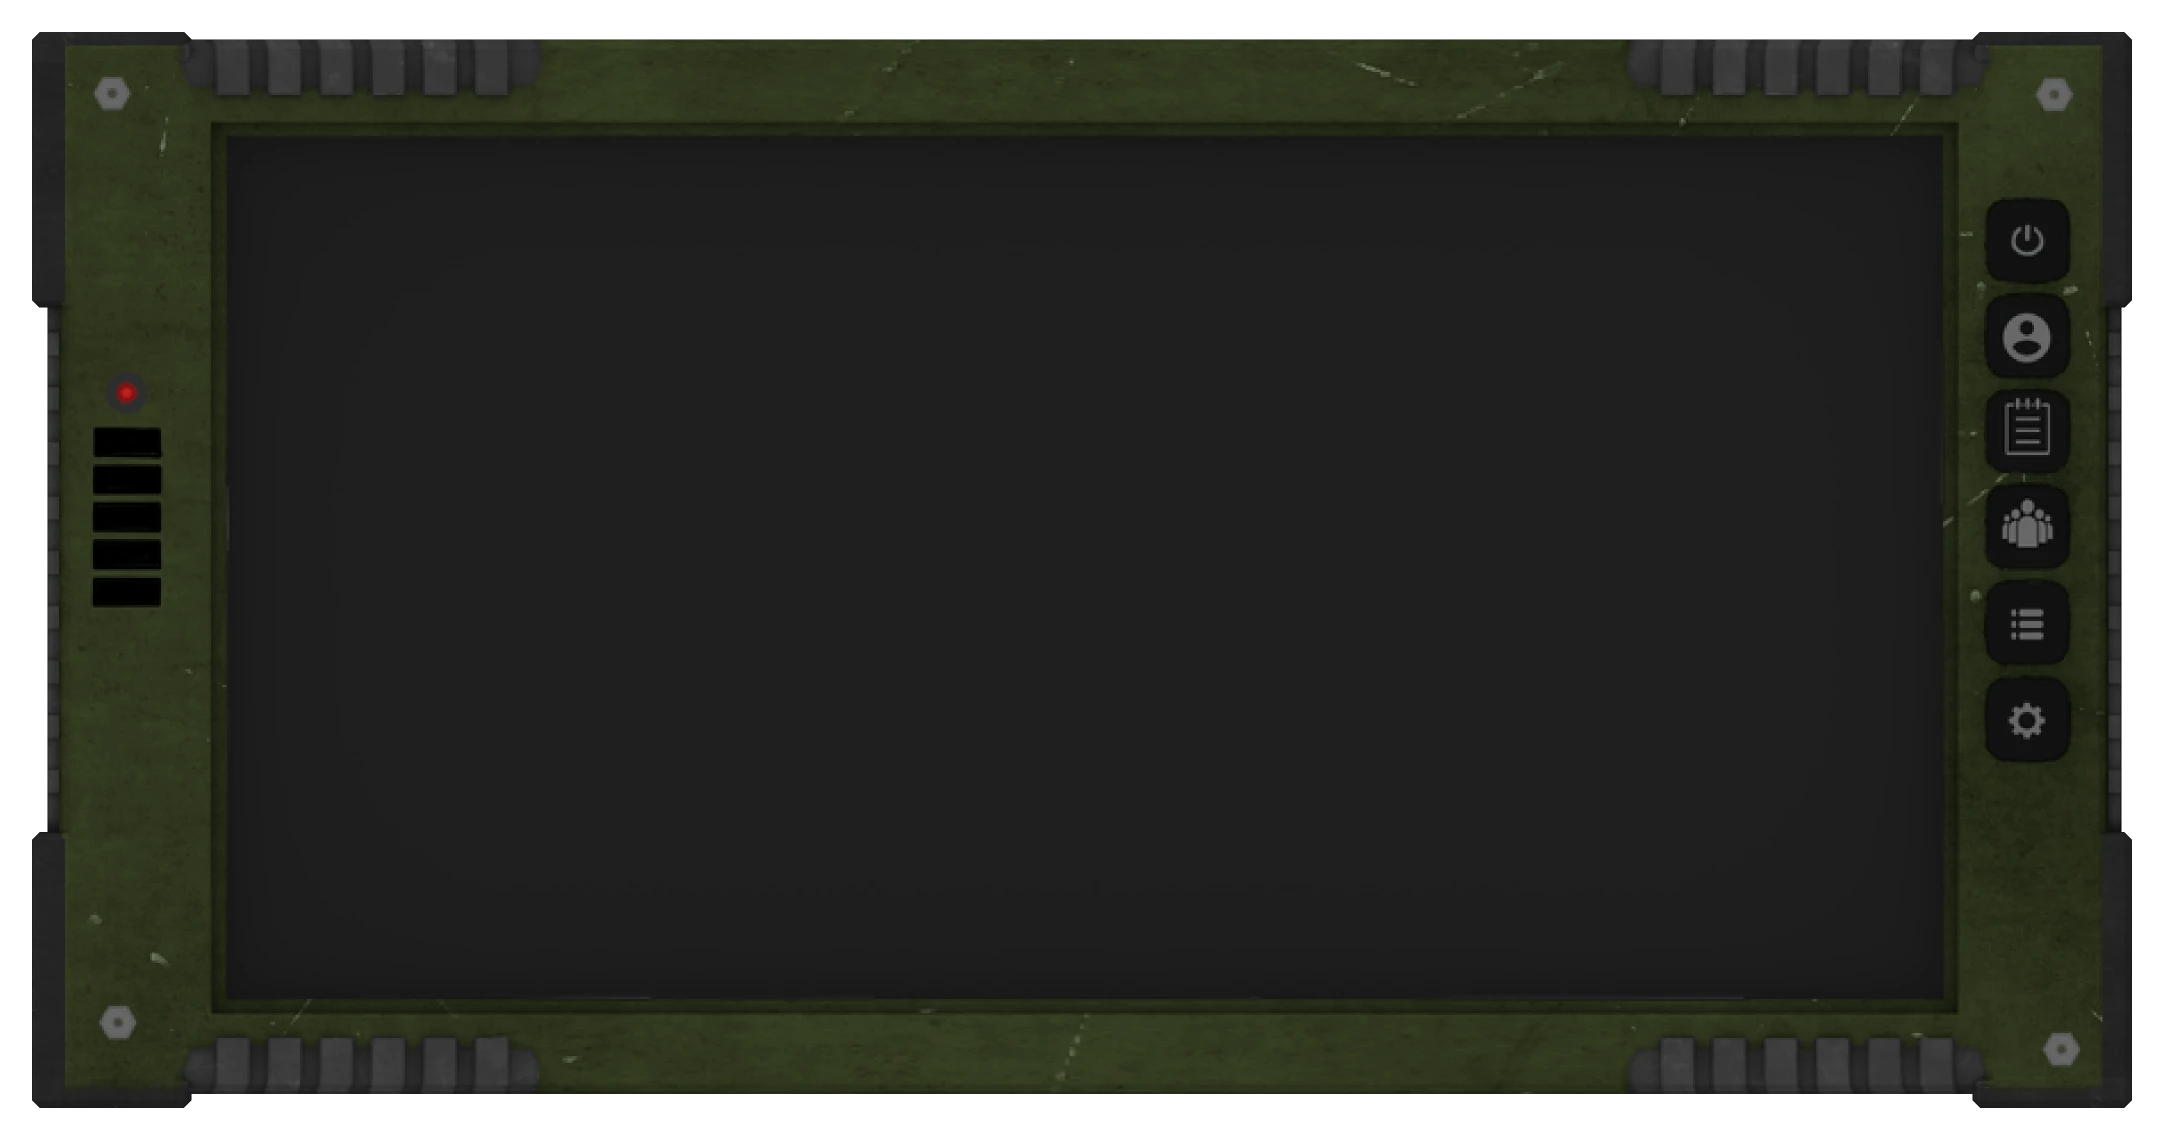
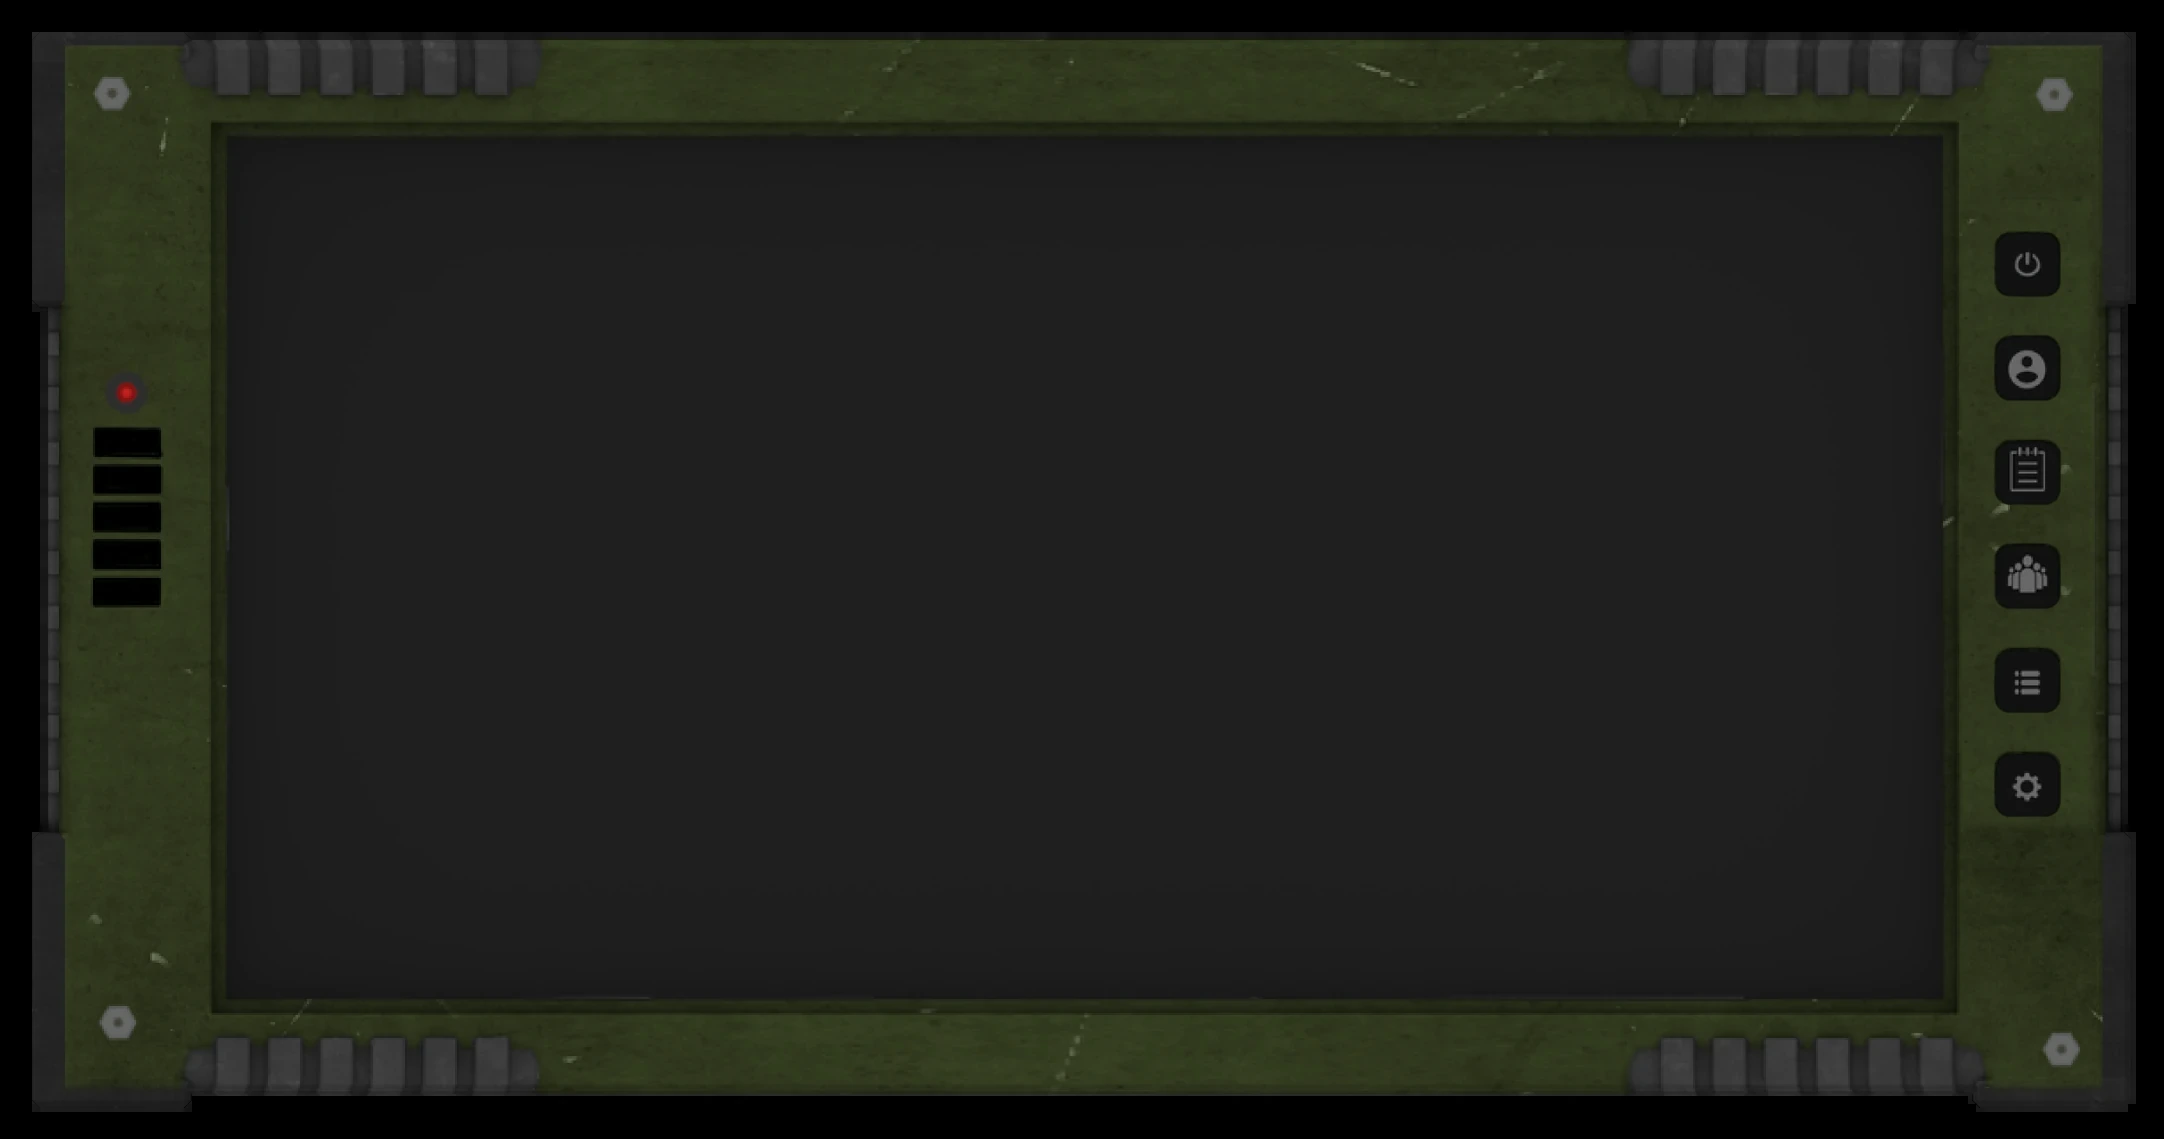
PDA side rail: wider spacing and a name above each button
Update: Tablet

Claude-Session: https://claude.ai/code/session_0161ezvjReexY5uDEt8cannB

Changed region(s): [[0.0, 0.0, 1.0, 1.0]]

diff --git a/web/index.html b/web/index.html
@@ -137,7 +137,8 @@
     pointer-events: none; user-select: none; }
   #tablet .device { position: absolute; inset: 0; width: 100%; height: 100%; user-select: none; -webkit-user-drag: none;
     filter: drop-shadow(0 18px 40px rgba(0,0,0,0.65)); }
-  #tablet .hw { z-index: 3; position: absolute; left: 91.78%; width: 3.83%; height: 7.2%; border: 0; border-radius: 22%; background: transparent; cursor: pointer; pointer-events: auto; }
+  #tablet .hw { z-index: 3; position: absolute; left: 91.99%; width: 3.28%; height: 6.15%; border: 0; border-radius: 22%; background: transparent; cursor: pointer; pointer-events: auto; }
+  #tablet .hwl { position: absolute; z-index: 3; left: 90.2%; width: 7.2%; text-align: center; font: 700 clamp(8px, 1.05vw, 15px)/1 'Saira Condensed', sans-serif; letter-spacing: 0.14em; text-transform: uppercase; color: rgba(205,191,148,0.82); text-shadow: 0 1px 0 rgba(0,0,0,0.7); pointer-events: none; }
   #tablet .hw:hover { box-shadow: 0 0 0 2px rgba(150, 220, 160, 0.55); }
   #tablet .hw:active { background: rgba(0,0,0,0.25); }
   #mapCanvas { width: 100%; height: 100%; display: block; cursor: grab; touch-action: none; }
@@ -376,12 +377,18 @@
 <div id="tablet">
   <img class="fp" src="./img/fp_back.webp" alt="" draggable="false">
   <img class="device" src="./img/pda_front.webp" alt="" draggable="false">
-  <button class="hw" data-hw="close" style="top:17.50%" title="Put away (Tab)"></button>
-  <button class="hw" data-hw="home" style="top:25.90%" title="Home"></button>
-  <button class="hw" data-hw="map" style="top:34.15%" title="Map"></button>
-  <button class="hw" data-hw="roster" style="top:42.60%" title="Roster"></button>
-  <button class="hw" data-hw="comms" style="top:50.90%" title="Comms hub"></button>
-  <button class="hw" data-hw="settings" style="top:59.35%" title="Settings"></button>
+  <button class="hw" data-hw="close" style="top:20.11%" title="Put away (Tab)"></button>
+  <span class="hwl" style="top:17.91%">Close</span>
+  <button class="hw" data-hw="home" style="top:29.24%" title="Home"></button>
+  <span class="hwl" style="top:27.04%">Home</span>
+  <button class="hw" data-hw="map" style="top:38.37%" title="Map"></button>
+  <span class="hwl" style="top:36.17%">Map</span>
+  <button class="hw" data-hw="roster" style="top:47.50%" title="Roster"></button>
+  <span class="hwl" style="top:45.30%">Roster</span>
+  <button class="hw" data-hw="comms" style="top:56.63%" title="Comms hub"></button>
+  <span class="hwl" style="top:54.43%">Comms</span>
+  <button class="hw" data-hw="settings" style="top:65.76%" title="Settings"></button>
+  <span class="hwl" style="top:63.56%">Settings</span>
   <div class="display">
   <div class="scan"></div>
   <pre class="term" id="pdaTerm" aria-hidden="true"></pre>
